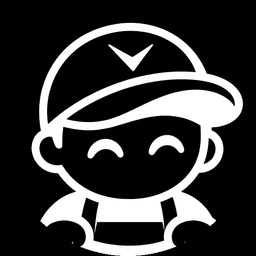
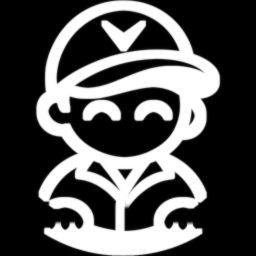
Add files via upload

diff --git a/js/views/home.js b/js/views/home.js
@@ -33,7 +33,7 @@ export async function render(main, { previewClient } = {}) {
   if (calAllowed()) {
     const talk = el("button", { type: "button", class: "hm-orb", "aria-label": "Ask Cal: tap to talk" }, el("span", { "aria-hidden": "true" }));
     // (update 621) Cal himself in the orb (the caddie in a speech bubble, in dark ink), with a small microphone badge: tap to talk
-    talk.firstChild.innerHTML = '<svg class="hm-cal-face" viewBox="0 0 20 20"><mask id="hm-cal-m"><image href="icons/cal.png?v=1" width="20" height="20"/></mask><rect width="20" height="20" fill="#1a1408" mask="url(#hm-cal-m)"/></svg>';
+    talk.firstChild.innerHTML = '<svg class="hm-cal-face" viewBox="0 0 20 20"><mask id="hm-cal-m"><image href="icons/cal.png?v=2" width="20" height="20"/></mask><rect width="20" height="20" fill="#1a1408" mask="url(#hm-cal-m)"/></svg>';
     talk.appendChild(el("span", { class: "hm-orb-mic", "aria-hidden": "true" }));
     talk.lastChild.innerHTML = '<svg viewBox="0 0 24 24"><rect x="9" y="3" width="6" height="11" rx="3" fill="#fff"/><path d="M6 11a6 6 0 0 0 12 0M12 17v4M9 21h6" stroke="#fff" stroke-width="2" fill="none" stroke-linecap="round"/></svg>';
     const open = async (listen) => { const m = await import("../callie.js"); await m.openCallie(); if (listen && !(await import("../listen.js")).isIOS()) setTimeout(() => document.querySelector(".cal-mic:not(.on)")?.click(), 150); };

diff --git a/index.html b/index.html
@@ -5,7 +5,7 @@
 <meta name="viewport" content="width=device-width, initial-scale=1, viewport-fit=cover">
 <!-- (update 267) Add to Home Screen: opens as its own app, full screen, with no Safari address bar -->
 <link rel="manifest" href="manifest.webmanifest">
-<link rel="apple-touch-icon" href="icons/apple-touch-icon.png?v=651">
+<link rel="apple-touch-icon" href="icons/apple-touch-icon.png?v=652">
 <meta name="apple-mobile-web-app-capable" content="yes">
 <meta name="mobile-web-app-capable" content="yes">
 <meta name="apple-mobile-web-app-status-bar-style" content="black-translucent">
@@ -25,11 +25,11 @@
 <link rel="preconnect" href="https://fonts.googleapis.com">
 <link rel="preconnect" href="https://fonts.gstatic.com" crossorigin>
 <link rel="stylesheet" href="https://fonts.googleapis.com/css2?family=Inter:wght@200;300;400;500;600;700&display=swap">
-<link rel="stylesheet" href="css/style.css?v=651">
+<link rel="stylesheet" href="css/style.css?v=652">
 <script src="config.js"></script>
 </head>
 <body>
 <div id="app"><p class="boot-msg ta-loading">Loading&hellip;</p></div>
-<script type="module" src="js/main.js?v=651"></script>
+<script type="module" src="js/main.js?v=652"></script>
 </body>
 </html>

diff --git a/js/ui.js b/js/ui.js
@@ -74,7 +74,7 @@ export function icon(name) {
   if (name === "robot" || name === "calface") { // (update 624: calface: Cal without his speech bubble, for the header's coin)
     const ns = "http://www.w3.org/2000/svg", id = `callie-m${++robotN}`;
     const mask = document.createElementNS(ns, "mask"); mask.setAttribute("id", id);
-    const img = document.createElementNS(ns, "image"); img.setAttribute("href", name === "calface" ? "icons/cal-face.png?v=1" : "icons/cal.png?v=1"); /* (update 620: Cal, the caddie in a speech bubble) */ img.setAttribute("width", "20"); img.setAttribute("height", "20");
+    const img = document.createElementNS(ns, "image"); img.setAttribute("href", name === "calface" ? "icons/cal-face.png?v=2" : "icons/cal.png?v=2"); /* (update 620: Cal, the caddie in a speech bubble) */ img.setAttribute("width", "20"); img.setAttribute("height", "20");
     mask.appendChild(img);
     const rect = document.createElementNS(ns, "rect"); rect.setAttribute("width", "20"); rect.setAttribute("height", "20"); rect.setAttribute("fill", "currentColor"); rect.setAttribute("mask", `url(#${id})`);
     svg.append(mask, rect); svg.classList.add("ico-callie");

diff --git a/sw.js b/sw.js
@@ -1,7 +1,7 @@
 // Offline: keeps a copy of the app itself so it opens with no signal (Data Entry on the course).
 // The page and the app's files: fresh when online, the saved copy when not. The Firebase libraries
 // (versioned, never change): the saved copy first. Data goes through Firebase, not here.
-const CACHE = "tour-analytics-v651";
+const CACHE = "tour-analytics-v652";
 self.addEventListener("install", (e) => { self.skipWaiting(); e.waitUntil(caches.open(CACHE).then((c) => c.addAll(["./", "./index.html", "./css/style.css", "./config.js"]).catch(() => {}))); });
 self.addEventListener("activate", (e) => e.waitUntil(caches.keys().then((ks) => Promise.all(ks.filter((k) => k !== CACHE).map((k) => caches.delete(k)))).then(() => self.clients.claim())));
 self.addEventListener("fetch", (e) => {
